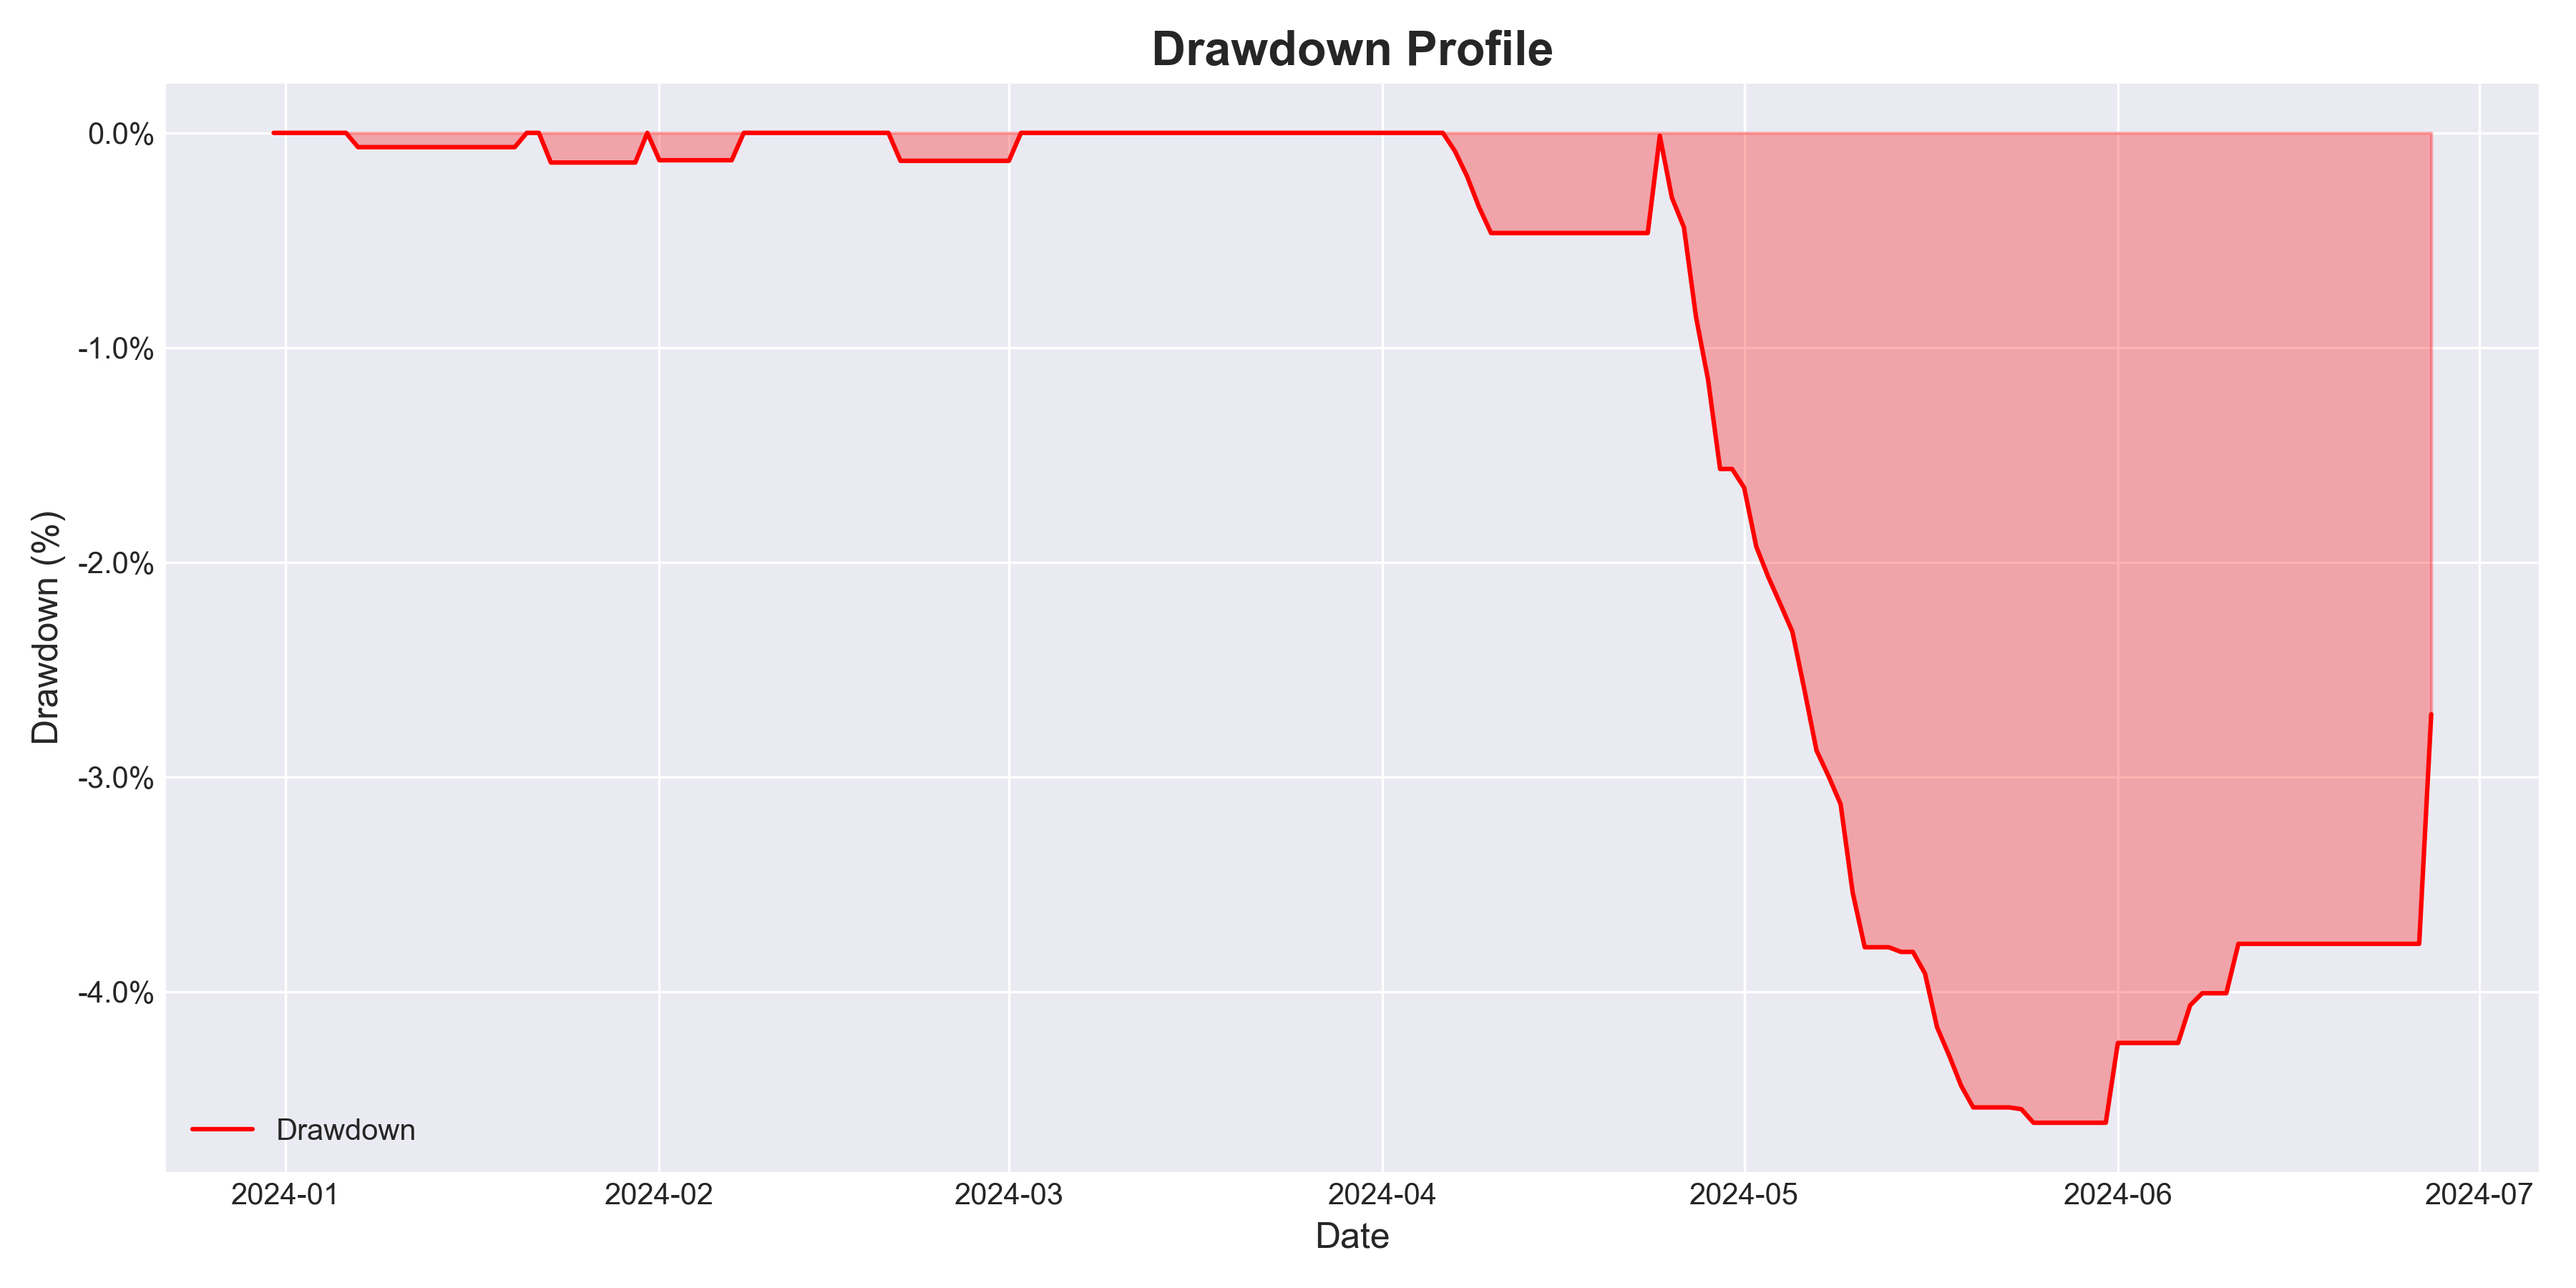
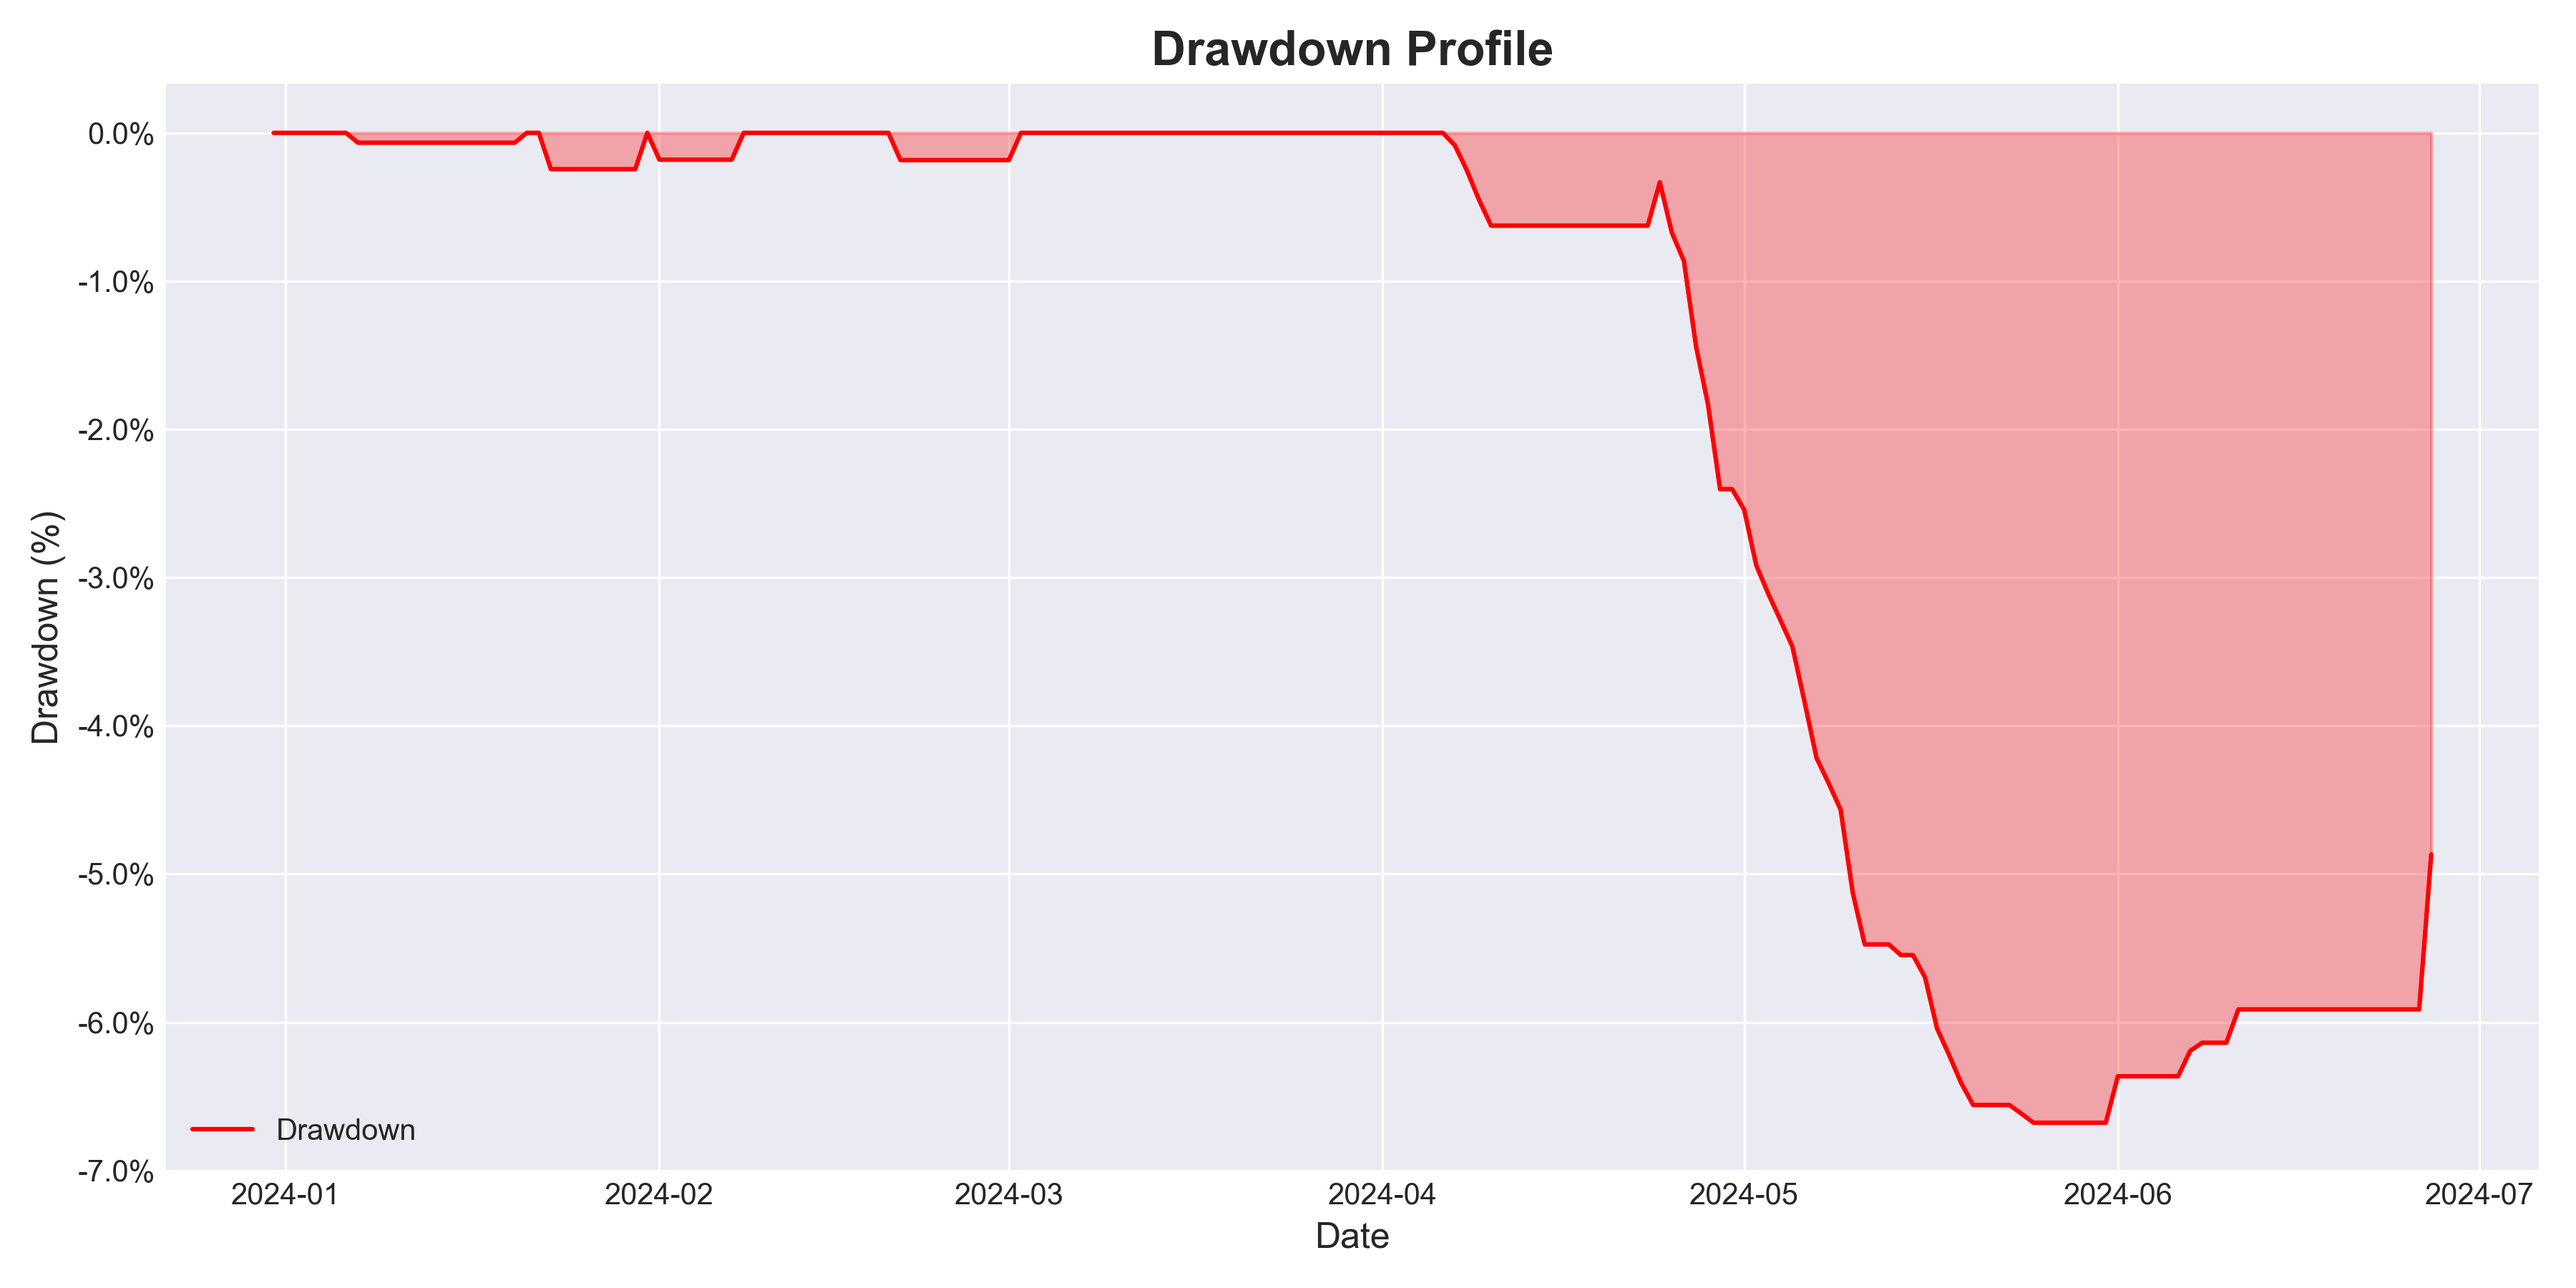
feat: Add conditional exit fees based on trigger

diff --git a/end.py b/end.py
@@ -13,6 +13,8 @@ def simulate_delta_neutral(
     fee_perp_entry: float = 0.00045,
     fee_spot_exit: float = 0.0004,
     fee_perp_exit: float = 0.00015,
+    fee_spot_exit_funding: float = 0.0007,
+    fee_perp_exit_funding: float = 0.00045,
     fund_thresh: float = 0.00001,
     spot_price_exit_multiplier: float = 1.0,
 ) -> tuple[pd.DataFrame, dict, pd.DataFrame, float]:
@@ -34,6 +36,8 @@ def simulate_delta_neutral(
     - fee_perp_entry (float): Perpetual trading fee for entry. Default is 0.00045 (0.045%).
     - fee_spot_exit (float): Spot trading fee for exit. Default is 0.0004 (0.040%).
     - fee_perp_exit (float): Perpetual trading fee for exit. Default is 0.00015 (0.015%).
+    - fee_spot_exit_funding (float): Spot trading fee for funding rate exit. Default is 0.0007 (0.07%).
+    - fee_perp_exit_funding (float): Perpetual trading fee for funding rate exit. Default is 0.00045 (0.045%).
     - fund_thresh (float): Funding rate threshold for entry and exit. Default is 0.00001.
     - spot_price_exit_multiplier (float): Multiplier for the spot price in the exit condition. Default is 1.0.
 
@@ -132,8 +136,12 @@ def simulate_delta_neutral(
                 trade_df = df[(df.index >= entry_time) & (df.index < t)]
                 fund_earned = (trade_df['fund_rate'] * allocated_capital).sum()
 
-                # Calculate exit and total fees
-                exit_fee_cost = allocated_capital * (fee_spot_exit + fee_perp_exit)
+                # Calculate exit and total fees based on exit reason
+                if clause == 3:  # Exit due to funding rate
+                    exit_fee_cost = allocated_capital * (fee_spot_exit_funding + fee_perp_exit_funding)
+                else:  # Other exits
+                    exit_fee_cost = allocated_capital * (fee_spot_exit + fee_perp_exit)
+                
                 total_fee_cost = entry_fee_cost + exit_fee_cost
 
                 # Compute yields before and after fees

diff --git a/report.md b/report.md
@@ -34,30 +34,30 @@ Below are the key financial metrics from the backtest, starting with an initial 
 | Metric           | Value       |
 |------------------|-------------|
 | Sharpe Ratio     | nan |
-| Maximum Drawdown (%) | -4.61% |
-| Volatility (%)   | 5.27% |
-| Value at Risk (95%) (%) | -0.51% |
+| Maximum Drawdown (%) | -6.68% |
+| Volatility (%)   | 5.34% |
+| Value at Risk (95%) (%) | -0.53% |
 
 ### Trade Performance Metrics
 | Metric                 | Value       |
 |------------------------|-------------|
-| Profit Factor          | 2.04 |
-| Average Profit per Trade | $854.72 |
-| Average Loss per Trade | $-136.73 |
-| Expectancy             | $103.62 |
+| Profit Factor          | 1.44 |
+| Average Profit per Trade | $882.43 |
+| Average Loss per Trade | $-183.81 |
+| Expectancy             | $58.52 |
 
 ### Capital Efficiency Metrics
 | Metric                 | Value       |
 |------------------------|-------------|
-| Capital Utilization (%)| 86.87% |
-| Turnover Ratio         | 61.31 |
+| Capital Utilization (%)| 86.89% |
+| Turnover Ratio         | 60.46 |
 | Leverage Used          | 1.00 |
 
 ### Fee Impact Metrics
 | Metric                 | Value       |
 |------------------------|-------------|
-| Impact of Trading Fees (%) | 3.40% |
-| Break-Even Fee Rate (%)| 0.2851% |
+| Impact of Trading Fees (%) | 6.29% |
+| Break-Even Fee Rate (%)| 0.2869% |
 
 ### Trade Statistics
 | Metric                 | Value       |
